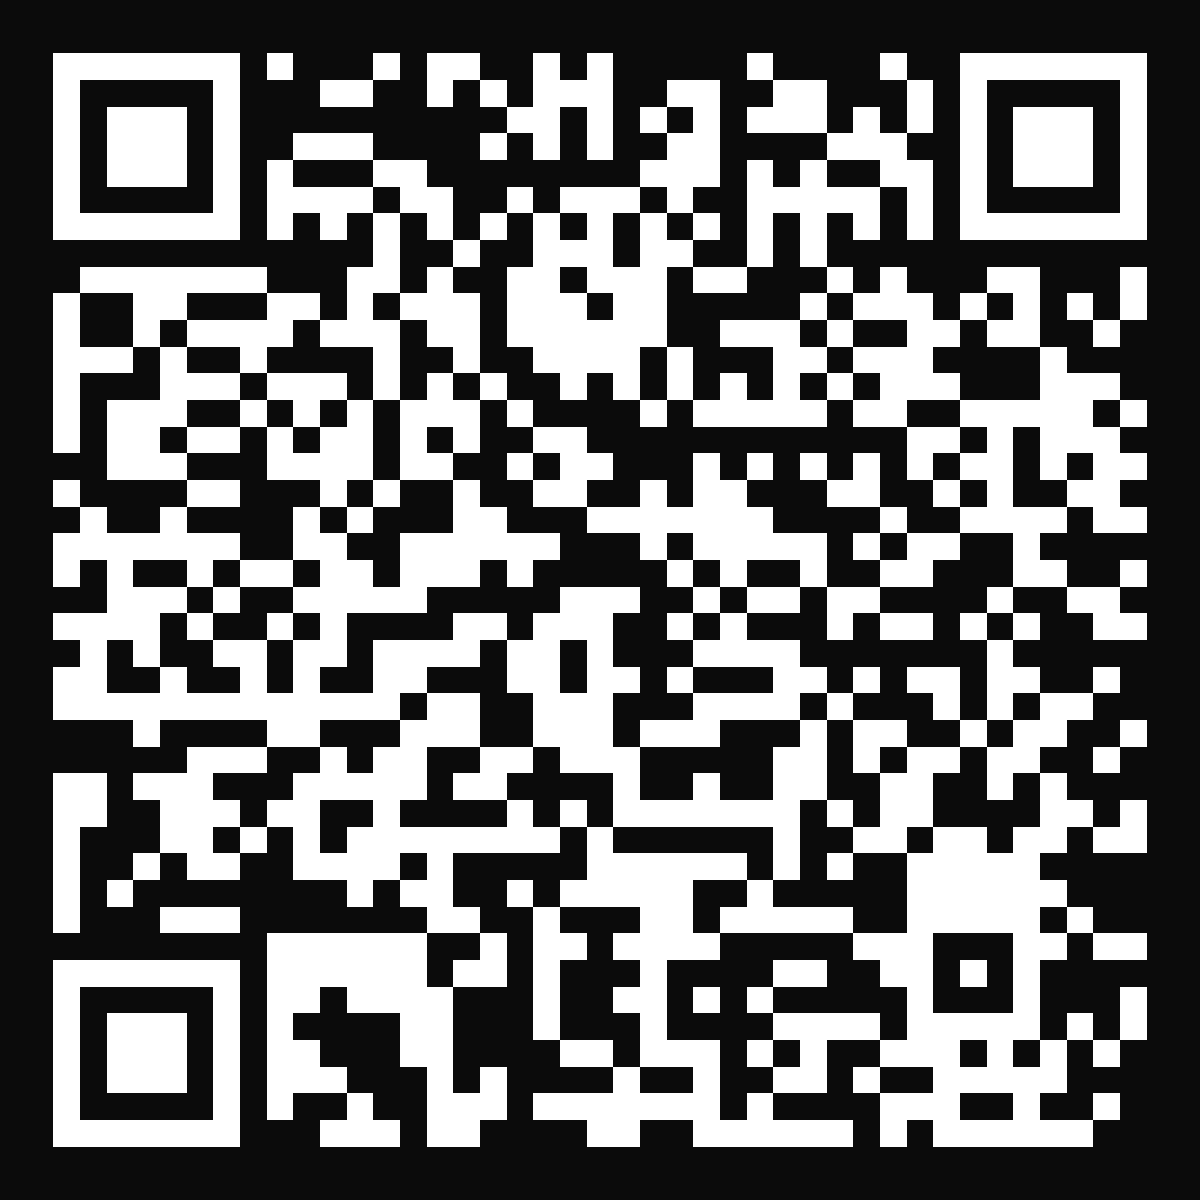
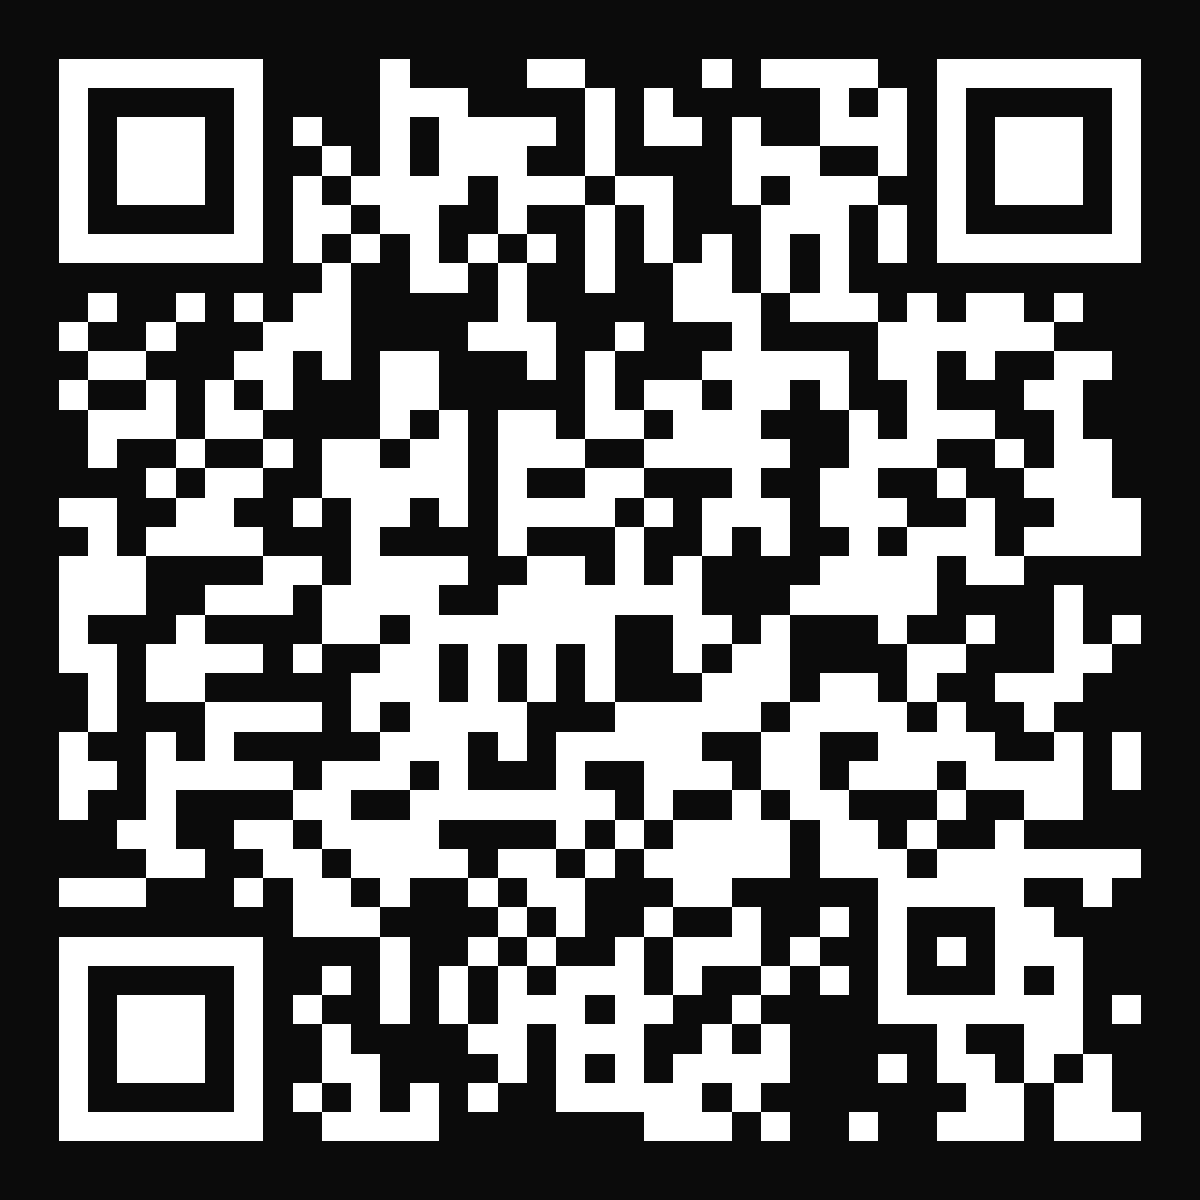
Space na Hugging Face, QR na rukávu vede tam
Claude-Session: https://claude.ai/code/session_01FB5DSbDiPo9etZdP2G8Gq3

diff --git a/README.md b/README.md
@@ -12,7 +12,7 @@ a já jsem sám. Vtom náhle nad strání
 kulatý měsíc se mi uklání
 ```
 
-App: https://huggingface.co/spaces/Unt1l1f1nd/tri-kumpani
+App: https://huggingface.co/spaces/Unt1l1f1nd/tri-kumpani (the sleeve QR points to https://unt1l1f1nd-tri-kumpani.static.hf.space/)
 
 ## Run
 
@@ -30,5 +30,6 @@ uv run pytest
 - `app/` static app, one file, no network
 - `model/precompute.py` what the model wrote down while reading
 - `bunda*.py`, `rukav_qr.*` print templates for back and sleeve
+- `space/README.md` front matter for the Hugging Face Space; upload it with `app/index.html`
 - `lekce/` byte encoding, tokenizers, BPE from scratch, word2vec in numpy
 - `basne/` the poem, Czech and original

diff --git a/space/README.md b/space/README.md
@@ -1,0 +1,16 @@
+---
+title: Tři kumpáni
+emoji: 🌙
+colorFrom: gray
+colorTo: yellow
+sdk: static
+pinned: false
+license: mit
+short_description: Li Po read by a small language model, head by head
+---
+
+# Tři kumpáni
+
+Li Po's *Drinking Alone under the Moon*, in Bohumil Mathesius's Czech rendering,
+read by Qwen 2.5 0.5B. Pick a layer, tap a token, see all 14 attention heads.
+Code: https://github.com/moudrkat/tri-kumpani
